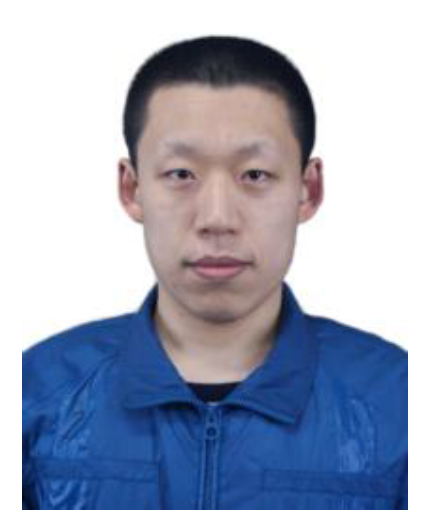
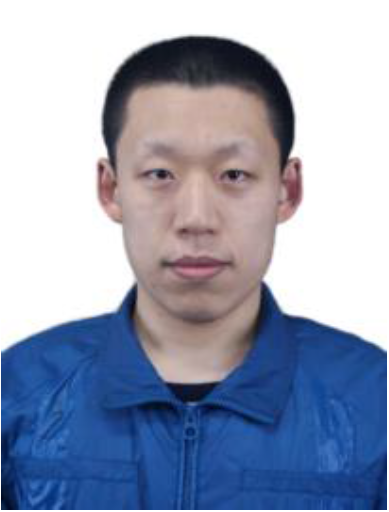
update

diff --git a/people.html b/people.html
@@ -166,13 +166,13 @@ href="https://www.binghamton.edu/link-foundation/newsltr/2012/sim.html">Advanced
 		<p>M.S., University of Washington</p>
 	</div>
 	  <div class="personfile">
-		<p><img class="profileimg" src="img/FangShuo.png" alt=""></p>
+		<p><img class="profileimg" src="img/FangShuo.png" alt="" width="171" height="212"></p>
 	  <p>
 	  <a href="mailto:shuofang.cuny@gmail.com">Shuo Fang</a></p>
 		<p>M.S., Harbin Engineering<br>University</p>
 	</div>
 	<div class="personfile">
-		<p><img class="profileimg" src="img/Junxi Zhu.jpg" alt=""></p>
+		<p><img class="profileimg" src="img/Junxi Zhu.jpg" alt="" width="171" height="212"></p>
 	  <p>
 	  <!--<a href="mailto:">-->Junxi Zhu</a></p>
 		<p>M.S., University of Maryland <br> College Park</p>
